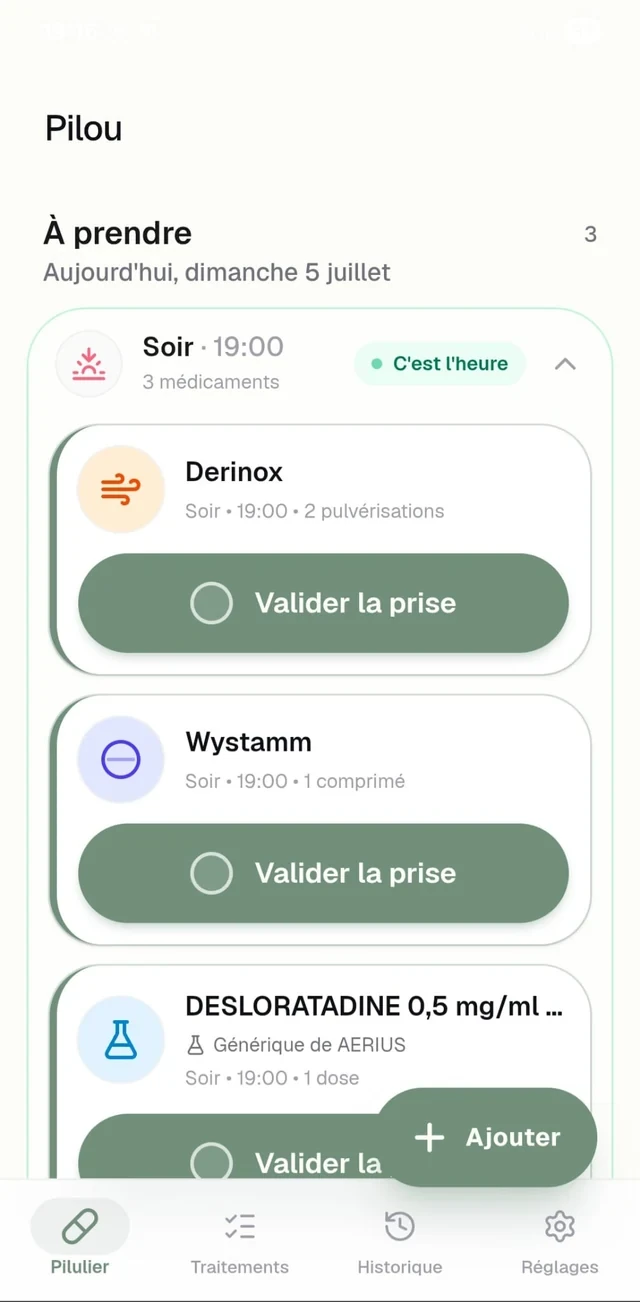
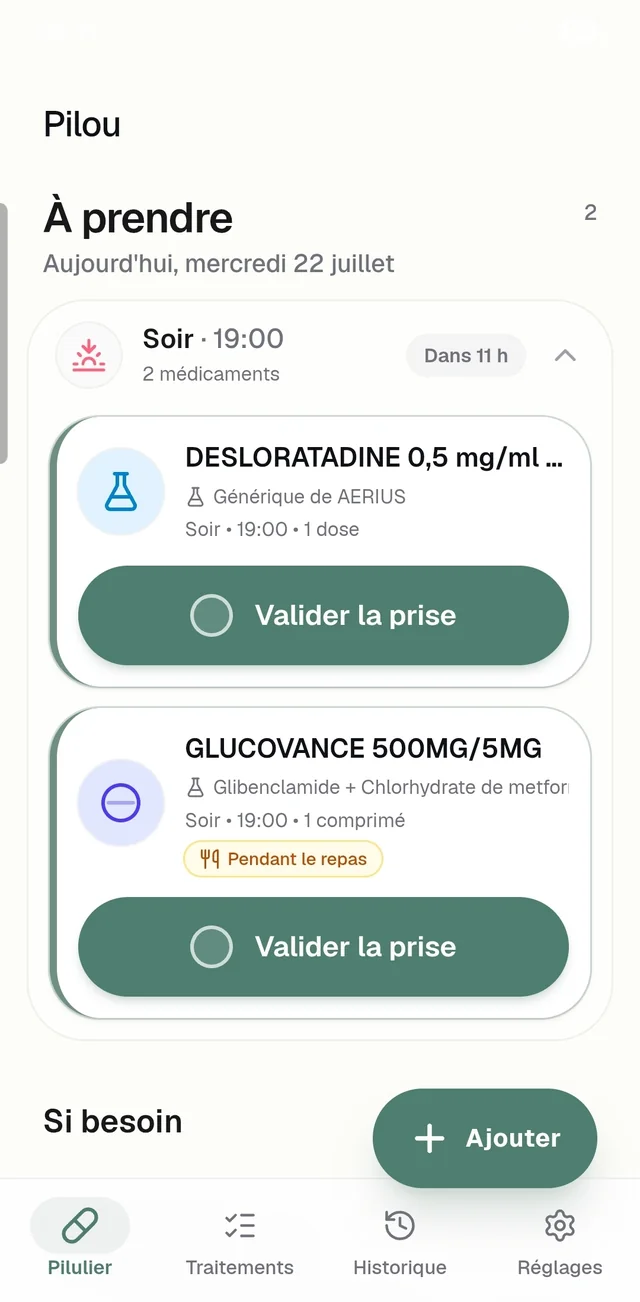
assets(site): remplace la capture heros (soir a valider) + alt historique 98%
- Nouvelle capture heros en haut de page : ecran << a prendre >> du soir avec
  2 medicaments a valider (DCI affichees, instruction << Pendant le repas >>),
  capture recente et plus riche. Memes dimensions (640x1302) et meme cadrage
  que l'ancienne (barre d'etat discrete, nav incluse, pas de barre systeme)
  -> meme nom de fichier, aucun changement de mise en page.
- Correction du texte alt de la capture historique : 88 -> 98 pourcent, pour
  correspondre a la nouvelle image deployee precedemment.

diff --git a/index.html b/index.html
@@ -1045,7 +1045,7 @@ footer{background:#0a0f0c;color:white;padding:64px 40px 40px}
       <div class="gallery-item fade-up fade-up-d2">
         <div class="gallery-phone">
           <div class="gallery-notch"><div class="gallery-notch-pill"></div></div>
-          <img class="gallery-screen" src="/pilou-gallery-historique.webp" alt="Écran historique Pilou avec taux d’observance de 88 pourcent" width="640" height="1254" loading="lazy">
+          <img class="gallery-screen" src="/pilou-gallery-historique.webp" alt="Écran historique Pilou avec taux d’observance de 98 pourcent" width="640" height="1254" loading="lazy">
         </div>
         <div class="gallery-caption">
           <div class="gallery-title">Suivez votre observance</div>
